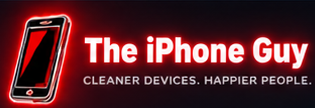
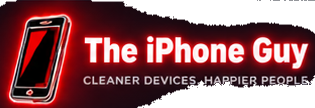
Add files via upload

Changed region(s): [[0.2857, 0.0, 1.0, 0.3056], [0.4286, 0.6944, 1.0, 1.0], [0.0, 0.0, 0.0571, 0.0556]]

diff --git a/android_cleaner.py b/android_cleaner.py
@@ -26,7 +26,7 @@ from PIL import Image, ImageTk
 from pathlib import Path
 from datetime import datetime, timedelta
 
-APP_VERSION = "1.2.13"
+APP_VERSION = "1.2.14"
 APP_NAME = f"The iPhone Guy - Android Cleaner v{APP_VERSION}"
 ADMIN_PIN_SALT = "aabbccddeeff00112233445566778899"
[1 lines of base64/hex data omitted]
@@ -39,6 +39,65 @@ APP_DIR = BASE_DIR
 
 def bundled_asset(*parts):
     return APP_DIR.joinpath("assets", *parts)
+
+def make_ui_icon(kind, color="#ffffff", size=22):
+    """Create a crisp supersampled line icon without relying on Windows emoji fonts."""
+    scale = 4
+    S = size * scale
+    img = Image.new("RGBA", (S, S), (0,0,0,0))
+    d = ImageDraw.Draw(img)
+    c = color
+    W = max(5, int(2.1*scale))
+    def line(points, width=W):
+        d.line([(int(x*scale),int(y*scale)) for x,y in points], fill=c, width=width, joint="curve")
+    def ellipse(box, width=W, fill=None):
+        d.ellipse(tuple(int(v*scale) for v in box), outline=c if fill is None else None,
+                  fill=c if fill else None, width=width)
+    def rect(box, radius=2, width=W, fill=None):
+        b=tuple(int(v*scale) for v in box)
+        d.rounded_rectangle(b, radius=int(radius*scale), outline=c if fill is None else None,
+                            fill=c if fill else None, width=width)
+    if kind == "rescan":
+        d.arc((3*scale,3*scale,19*scale,19*scale), 35, 305, fill=c, width=W)
+        d.polygon([(18*scale,3*scale),(21*scale,8*scale),(15*scale,8*scale)], fill=c)
+    elif kind == "cleanup":
+        line([(5,18),(17,6)]); line([(9,20),(20,9)])
+        d.polygon([(3*scale,17*scale),(8*scale,22*scale),(12*scale,18*scale),(7*scale,13*scale)], fill=c)
+    elif kind == "review":
+        rect((5,3,17,20),2); line([(8,8),(14,8)]); line([(8,12),(14,12)]); line([(8,16),(12,16)])
+    elif kind == "games":
+        d.rounded_rectangle((2*scale,7*scale,20*scale,18*scale), radius=5*scale, outline=c, width=W)
+        line([(7,10),(7,15)]); line([(4.5,12.5),(9.5,12.5)])
+        ellipse((14,10,16,12),fill=True); ellipse((17,13,19,15),fill=True)
+    elif kind == "unused":
+        rect((5,6,17,20),2); line([(3,6),(19,6)]); line([(8,3),(14,3)]); line([(9,10),(9,17)]); line([(13,10),(13,17)])
+    elif kind == "all":
+        for yy in (4,10,16):
+            for xx in (4,10,16):
+                d.rounded_rectangle((xx*scale,yy*scale,(xx+3)*scale,(yy+3)*scale), radius=scale, fill=c)
+    elif kind == "help":
+        ellipse((3,3,19,19)); 
+        d.text((9*scale,4*scale), "?", fill=c, anchor="ma")
+    elif kind == "settings":
+        ellipse((7,7,15,15), width=W); ellipse((10,10,12,12), fill=True)
+        for a,b in [((11,2),(11,6)),((11,16),(11,20)),((2,11),(6,11)),((16,11),(20,11))]: line([a,b])
+    elif kind == "remove":
+        rect((6,7,16,20),2); line([(4,6),(18,6)]); line([(8,3),(14,3)]); line([(9,10),(9,17)]); line([(13,10),(13,17)])
+    elif kind == "safe":
+        d.polygon([(11*scale,2*scale),(19*scale,5*scale),(18*scale,13*scale),(11*scale,21*scale),(4*scale,13*scale),(3*scale,5*scale)], outline=c, fill=None)
+        line([(7,11),(10,14),(15,8)])
+    elif kind == "warning":
+        d.polygon([(11*scale,2*scale),(21*scale,20*scale),(1*scale,20*scale)], outline=c, fill=None)
+        line([(11,7),(11,13)]); ellipse((10,16,12,18),fill=True)
+    elif kind == "repair":
+        line([(4,18),(17,5)]); ellipse((2,16,7,21)); ellipse((15,2,20,7))
+    elif kind == "check":
+        line([(4,12),(9,17),(19,6)], width=max(W,7))
+    else:
+        ellipse((4,4,18,18))
+    img = img.resize((size,size), Image.Resampling.LANCZOS)
+    return img
+
 
 PRODUCTION_CONFIG_PATH = BASE_DIR / "production_config.json"
 DATA_DIR = Path(os.getenv("LOCALAPPDATA", BASE_DIR)) / "TheiPhoneGuyAndroidCleaner"
@@ -2745,7 +2804,7 @@ def triage_app(app, rep, special, baseline_date, onset_label):
 
 class Cleaner(ctk.CTk):
     def __init__(self):
-        resolver_log("BUILD MARKER Android Cleaner v1.2.13 UI Polish + Icon Runner Fix loaded")
+        resolver_log("BUILD MARKER Android Cleaner v1.2.14 Scanner Icons UI Polish loaded")
         self.appearance_mode = "Dark"
         self.checked_packages = set()
         super().__init__()
@@ -3177,6 +3236,15 @@ class Cleaner(ctk.CTk):
     def _quick_theme_toggle(self):
         return
 
+    def _ui_icon(self, kind, color="#ffffff", size=20):
+        if not hasattr(self, "_ui_icon_cache"):
+            self._ui_icon_cache = {}
+        key=(kind,color,size)
+        if key not in self._ui_icon_cache:
+            pil=make_ui_icon(kind,color,size)
+            self._ui_icon_cache[key]=ctk.CTkImage(light_image=pil,dark_image=pil,size=(size,size))
+        return self._ui_icon_cache[key]
+
     def build(self):
         ctk.set_appearance_mode("dark")
         ctk.set_default_color_theme("blue")
@@ -3213,7 +3281,7 @@ class Cleaner(ctk.CTk):
             with Image.open(brand_path) as _brand:
                 _brand = _brand.convert("RGB")
                 self.brand_image = ctk.CTkImage(light_image=_brand.copy(), dark_image=_brand.copy(),
-                                                size=(280,96))
+                                                size=(270,92))
             ctk.CTkLabel(brand, text="", image=self.brand_image).pack()
         except Exception as exc:
             resolver_log(f"BRAND image load failed: {exc!r}")
@@ -3266,7 +3334,9 @@ class Cleaner(ctk.CTk):
         nav.pack(fill="x", padx=22, pady=(14, 10))
         self.nav_buttons = {}
         for label in ("Cleanup","Review","Games","Unused Apps","All Apps"):
-            b = ctk.CTkButton(nav, text=label, height=46, corner_radius=9,
+            _nav_kind={"Cleanup":"cleanup","Review":"review","Games":"games","Unused Apps":"unused","All Apps":"all"}.get(label,"all")
+            b = ctk.CTkButton(nav, text=label, image=self._ui_icon(_nav_kind,"#ffffff",19),
+                              compound="left", height=46, corner_radius=9,
                               fg_color=C["card2"], hover_color="#17496e",
                               border_width=1, border_color=C["line"],
                               font=("Segoe UI", 11, "bold"),
@@ -3275,7 +3345,8 @@ class Cleaner(ctk.CTk):
             self.nav_buttons[label] = b
 
         self.rescan_button = ctk.CTkButton(
-            nav, text="↻  Rescan", width=118, height=42, corner_radius=9,
+            nav, text="Rescan", image=self._ui_icon("rescan","#ffffff",19), compound="left",
+            width=118, height=42, corner_radius=9,
             fg_color=C["blue"], border_width=2, border_color="#45b2ff",
             hover_color=C["blue_hover"], font=("Segoe UI", 11, "bold"),
             command=self.scan
@@ -3436,11 +3507,11 @@ class Cleaner(ctk.CTk):
         actions=ctk.CTkFrame(right,fg_color="transparent")
         actions.pack(fill="x",side="bottom",padx=16,pady=(6,10))
         actions.grid_columnconfigure((0,1),weight=1)
-        self.remove_button=ctk.CTkButton(actions,text="🗑  Remove App",height=42,corner_radius=9,
+        self.remove_button=ctk.CTkButton(actions,text="Remove App",image=self._ui_icon("remove","#ffffff",19),compound="left",height=42,corner_radius=9,
                                          fg_color=C["red"],hover_color="#b92335",font=("Segoe UI",11,"bold"),
                                          command=self.uninstall)
         self.remove_button.grid(row=0,column=0,sticky="ew",padx=(0,6))
-        ctk.CTkButton(actions,text="🛡  Mark Safe",height=42,corner_radius=9,fg_color=("#dff7ee","#103b32"),
+        ctk.CTkButton(actions,text="Mark Safe",image=self._ui_icon("safe","#ffffff",19),compound="left",height=42,corner_radius=9,fg_color=("#dff7ee","#103b32"),
                       text_color=("#116b50","#61e7b1"),hover_color=("#c8efe2","#155443"),
                       border_width=1,border_color=("#51b99a","#267c64"),font=("Segoe UI",11,"bold"),
                       command=lambda:self.classify("Safe")).grid(row=0,column=1,sticky="ew",padx=(6,0))
@@ -3492,7 +3563,7 @@ class Cleaner(ctk.CTk):
     def update_selection_summary(self):
         n_checked = len(self.checked_packages)
         if hasattr(self, "remove_button"):
-            self.remove_button.configure(text=("🗑  Remove Apps" if n_checked > 1 else "🗑  Remove App"))
+            self.remove_button.configure(text=("Remove Apps" if n_checked > 1 else "Remove App"))
         apps = self.action_apps()
         if not apps:
             self.selection_var.set("Select an app to review it.")
@@ -3537,7 +3608,7 @@ class Cleaner(ctk.CTk):
             history.append(f"SHARED: {net.get('observations',0)} obs / {net.get('removals',0)} removals / {net.get('repair_yes',0)} fixed")
             if int(net.get('safe_votes') or 0): history.append(f"Shared safe marks {net.get('safe_votes')}")
             if int(net.get('malware_votes') or 0): history.append(f"Shared malware marks {net.get('malware_votes')}")
-        self.intel_title_var.set("\n".join("✓  "+x for x in history) if history else "✓  No previous repair evidence found")
+        self.intel_title_var.set("\n".join("•  "+x for x in history) if history else "No previous repair evidence found")
 
         metadata=[]
         if a.get("version_name"):
@@ -3559,7 +3630,7 @@ class Cleaner(ctk.CTk):
         if reasons:
             details.append("Why flagged: "+" • ".join(reasons[:4])+(" • …" if len(reasons)>4 else ""))
         if self._is_protected_app(a):
-            details.insert(0, "🔒 PROTECTED SYSTEM APP — removal disabled")
+            details.insert(0, "PROTECTED SYSTEM APP — removal disabled")
         self.intel_reason_var.set("\n".join("•  "+x for x in details) if details else "No additional risk details.")
 
     def show_how_to_connect(self):
@@ -4103,7 +4174,8 @@ class Cleaner(ctk.CTk):
                 # on name resolution/retriage to start it: a fully cached scan may
                 # have no resolver work at all.
                 self.after(50, self.start_background_icon_discovery)
-                self.after(0, lambda:self._scan_ui(False))
+                # v1.2.14: icon extraction is part of the visible scan. The icon
+                # pipeline closes the overlay after its final repaint.
                 if self._open_repair_outcome_after_scan and self.pending_repair_apps:
                     self._open_repair_outcome_after_scan = False
                     self.after(250, self.record_repair_outcome)
@@ -4377,11 +4449,15 @@ class Cleaner(ctk.CTk):
         )
         if hasattr(self, "icon_status_var"):
             self.icon_status_var.set(f"Icons: 0/{total} loaded")
+        self.after(0, lambda: self._scan_ui(
+            True, "Loading app icons…", 0, max(total,1)
+        ))
 
         if not work:
             self._icon_pipeline_running = False
             self._icon_pipeline_completed_signature = signature
             resolver_log(f"ICON PIPELINE FINISH serial={serial}: no suspicious/review candidates")
+            self.after(0, lambda:self._scan_ui(False))
             return
 
         def worker():
@@ -4421,10 +4497,15 @@ class Cleaner(ctk.CTk):
                             lambda d=done,t=total:
                                 self.icon_status_var.set(f"Icons: {d}/{t} loaded")
                         )
-                    # Repaint only. The running guard prevents this repaint from
-                    # spawning another icon worker.
-                    self.after(0, self.apply_view)
+                    self.after(
+                        0,
+                        lambda n=attempted,t=total:
+                            self._scan_ui(True, "Loading app icons…", n, t)
+                    )
                 completed_normally = True
+                # One final repaint prevents the selected assessment from being
+                # cleared/flickered once per icon.
+                self.after(0, self.apply_view)
                 resolver_log(
                     f"ICON PIPELINE FINISH serial={serial} generation={token}: "
                     f"loaded={done}/{total} attempted={attempted}"
@@ -4433,10 +4514,12 @@ class Cleaner(ctk.CTk):
                 resolver_log(
                     f"ICON PIPELINE ERROR serial={serial} generation={token}: {exc!r}"
                 )
+                self.after(0, lambda:self._scan_ui(False))
             finally:
                 self._icon_pipeline_running = False
                 if completed_normally:
                     self._icon_pipeline_completed_signature = signature
+                    self.after(80, lambda:self._scan_ui(False))
 
         threading.Thread(
             target=worker, daemon=True, name=f"icon-pipeline-{token}"
@@ -4452,9 +4535,11 @@ class Cleaner(ctk.CTk):
         if hasattr(self, "nav_buttons"):
             for label, button in self.nav_buttons.items():
                 active = label == mode
+                active_color = ("#e92f49" if label == "Cleanup" else self.C["blue"])
+                active_border = ("#ff536b" if label == "Cleanup" else "#58baff")
                 button.configure(
-                    fg_color=(self.C["blue"] if active else self.C["card2"]),
-                    border_color=("#58baff" if active else self.C["line"]),
+                    fg_color=(active_color if active else self.C["card2"]),
+                    border_color=(active_border if active else self.C["line"]),
                     border_width=(2 if active else 1)
                 )
         if hasattr(self, "view_label_var"):
@@ -4555,10 +4640,20 @@ class Cleaner(ctk.CTk):
                 if x.get("cleanup_candidate", False)
             ]
 
+        # Preserve the technician's selected app across icon/name/retriage repaints.
+        selected_package = None
+        try:
+            selected_ids = self.tree.selection()
+            if selected_ids:
+                selected_package = self.tree.set(selected_ids[0], "package")
+        except Exception:
+            selected_package = None
+
         for iid in self.tree.get_children():
             self.tree.delete(iid)
 
         self.rows = {}
+        selected_iid = None
 
         for app in apps:
             tag = app["priority"].lower()
@@ -4571,7 +4666,7 @@ class Cleaner(ctk.CTk):
                 values=(
                     ("🔒" if self._is_protected_app(app) else ("☑" if app["package"] in self.checked_packages else "☐")),
                     app["app_name"],
-                    ({"CRITICAL":"🔴  CRITICAL","HIGH":"🟠  HIGH","CHECK":"🟡  CHECK"}
+                    ({"CRITICAL":"CRITICAL","HIGH":"HIGH","CHECK":"CHECK"}
                      .get(app.get("priority"),app.get("priority",""))),
                     app.get("app_type", "UNKNOWN"),
                     app["installer_label"],
@@ -4593,7 +4688,16 @@ class Cleaner(ctk.CTk):
                 tags=(tag,)
             )
             self.rows[iid] = app
+            if selected_package and app.get("package") == selected_package:
+                selected_iid = iid
+
+        if selected_iid:
+            self.tree.selection_set(selected_iid)
+            self.tree.focus(selected_iid)
+            self.tree.see(selected_iid)
         self.update_count_label()
+        if selected_iid:
+            self.after_idle(self.update_selection_summary)
         if hasattr(self, "popup_summary_var"):
             user_apps = [a for a in self.all_apps if a.get("popup_risk") not in ("SYSTEM", None, "")]
             high = sum(a.get("popup_risk") == "HIGH" for a in user_apps)

diff --git a/RELEASE_NOTES_v1.2.14.md b/RELEASE_NOTES_v1.2.14.md
@@ -1,0 +1,11 @@
+# v1.2.14 Local Test — scanner/icon/UI polish
+
+- Keeps the scan overlay open through suspicious-app icon extraction.
+- Shows `Loading app icons… n/N` as part of scan progress.
+- Repaints once after icon extraction instead of once per icon.
+- Preserves selected package and App Assessment through icon/name/retriage refreshes.
+- Replaces Windows emoji/symbol UI icons with supersampled vector-style PIL/CTkImage icons.
+- Removes emoji from CRITICAL/HIGH/CHECK and repair-intelligence lines.
+- Cleanup active state is red; other selected navigation remains blue.
+- The iPhone Guy header PNG now has its connected near-black background made transparent,
+  so it blends into the navy application header instead of appearing as a black box.
